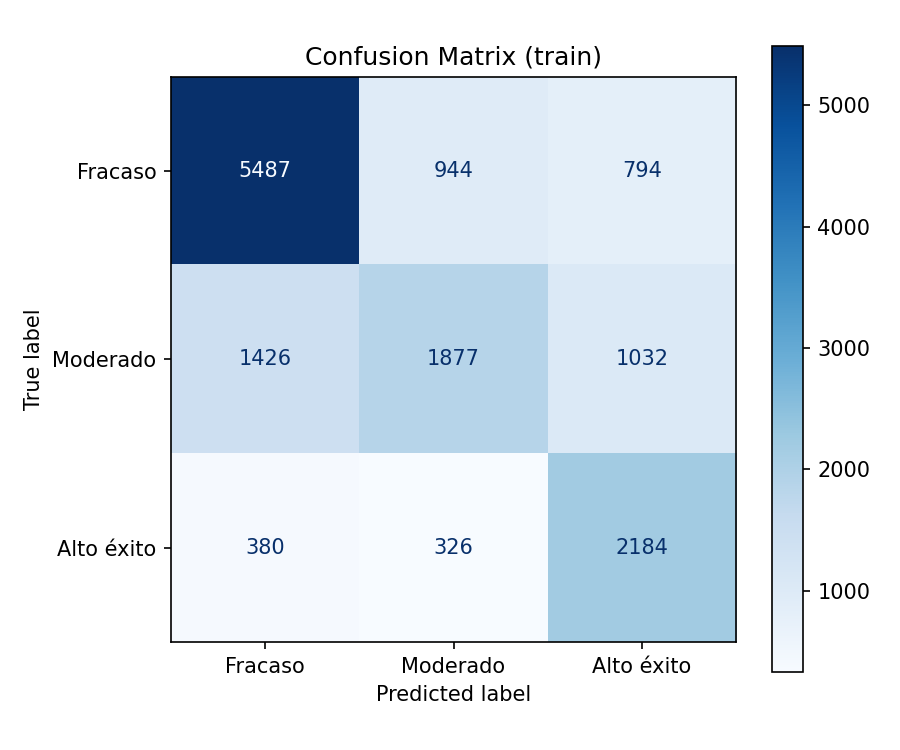
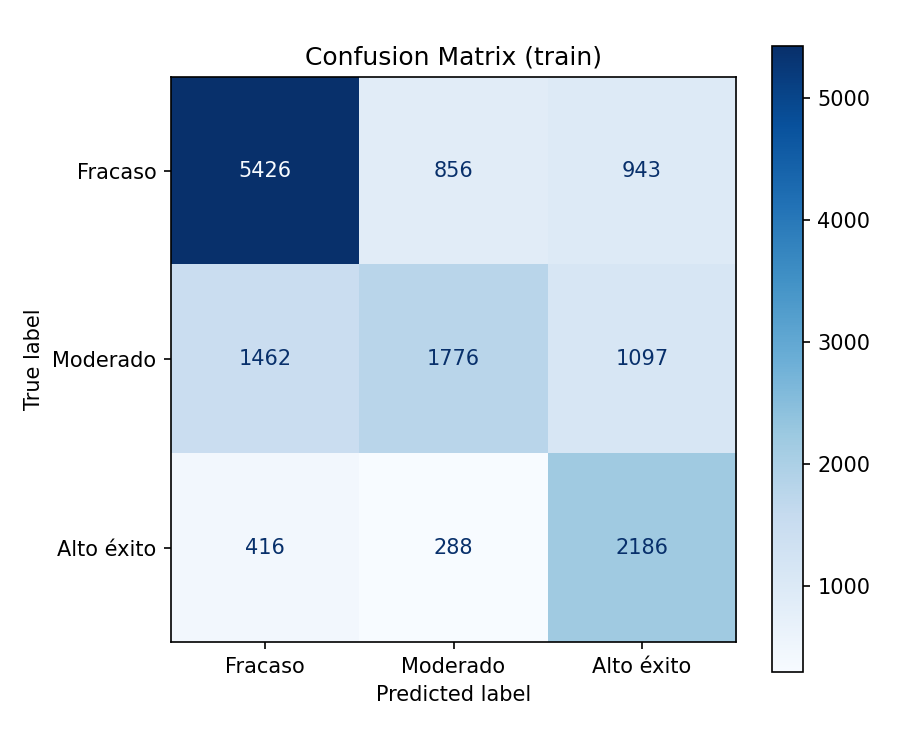
publisher_success
>publisher_succes_avg calc update (habia data leakage)
  >leave-one-out
  >uso de indies activos, no todos
  >creacion de self_published_avg como valor default

diff --git a/01_preprocess.py b/01_preprocess.py
@@ -5,7 +5,7 @@ Limpieza, ingeniería de features y cálculo del success_score.
 Ajustado para contexto INDIE:
   - Normalización basada en percentiles del subconjunto indie
   - Umbrales de clase por percentil (p50 / p80) en lugar de fijos
-  - Publisher: feature numérica de media de éxito (opción 2)
+  - Publisher: feature numérica de media de éxito
 Genera: data/processed.parquet
 """
 
@@ -167,13 +167,13 @@ df["success_class"] = df["success_score"].apply(score_to_class)
 
 labels = {0: "Fracaso", 1: "Moderado", 2: "Alto éxito"}
 
-print("\nDistribución de clases (todos los juegos):")
-for k, v in df["success_class"].value_counts().sort_index().items():
-    print(f"  {labels[k]:12s}: {v:6d}  ({v/len(df)*100:.1f}%)")
+# print("\nDistribución de clases (todos los juegos):")
+# for k, v in df["success_class"].value_counts().sort_index().items():
+#     print(f"  {labels[k]:12s}: {v:6d}  ({v/len(df)*100:.1f}%)")
 
 print("\nDistribución de clases (solo indie):")
-vc_i = df.loc[indie_mask, "success_class"].value_counts().sort_index()
-n_i  = indie_mask.sum()
+vc_i = df.loc[indie_active_mask, "success_class"].value_counts().sort_index()
+n_i  = indie_active_mask.sum()
 for k, v in vc_i.items():
     print(f"  {labels[k]:12s}: {v:6d}  ({v/n_i*100:.1f}%)")
 
@@ -240,7 +240,11 @@ for t in TOP_TAGS:
     safe = re.sub(r"[^a-z0-9]", "_", t.lower())
     df[f"tag_{safe}"] = df["tags_list"].apply(lambda lst: int(t in lst))
 
-# --- Publisher: media de éxito sobre juegos indie (mín. 3 juegos) ---
+# --- Publisher: media de éxito sobre juegos indie (mín. 3 juegos indie + leave-one-out) ---
+#     Leave-one-out: la media del publisher para cada juego se calcula
+#      excluyendo ese mismo juego, evitando data leakage (el modelo no puede
+#      "ver" el éxito del juego que está intentando predecir).
+
 pub_col = "publishers" if "publishers" in df.columns else "publisher"
 if pub_col in df.columns:
     df["publisher_clean"] = df[pub_col].apply(
@@ -249,24 +253,47 @@ if pub_col in df.columns:
 else:
     df["publisher_clean"] = "Unknown"
 
-pub_stats = (
-    df[indie_mask]
-    .groupby("publisher_clean")["success_score"]
-    .agg(["mean", "count"])
-    .rename(columns={"mean": "pub_success_avg", "count": "pub_game_count"})
-)
-# Solo publishers con al menos 3 juegos indie son fiables
-pub_avg_map      = pub_stats[pub_stats["pub_game_count"] >= 3]["pub_success_avg"]
-global_indie_avg = df.loc[indie_mask, "success_score"].mean()
+pub_sum   = df[indie_active_mask].groupby("publisher_clean")["success_score"].sum()
+pub_count = df[indie_active_mask].groupby("publisher_clean")["success_score"].count()
 
-df["publisher_success_avg"] = (
-    df["publisher_clean"]
-    .map(pub_avg_map)
-    .fillna(global_indie_avg)   # fallback: media global indie
-)
+# Fallback: media global de indies activos
+# global_indie_avg = df.loc[indie_active_mask, "success_score"].mean()
 
-print(f"\n  Publishers con ≥3 juegos indie: {len(pub_avg_map)}")
-print(f"  Media global indie (fallback):  {global_indie_avg:.1f}")
+# Juegos indie activos SIN publisher conocido (fallback o < 3 juegos)
+unknown_pubs = set(df["publisher_clean"]) - set(pub_count[pub_count >= 3].index) # publishers con <3 juegos
+self_published_mask = indie_active_mask & df["publisher_clean"].isin(unknown_pubs) # solo los publishers de indies activos
+self_published_avg  = df.loc[self_published_mask, "success_score"].mean()
+
+def publisher_avg_loo(row):
+    pub   = row["publisher_clean"]
+    score = row["success_score"]
+    
+    # publisher desconocido > media global
+    if pub not in pub_sum.index:
+        return self_published_avg
+    
+    # < 3 juegos > historial insuficiente
+    count = pub_count[pub]
+    if count < 3:
+        return self_published_avg
+    
+    # Excluye el score del juego actual del calculo del avg (leave-one-out)
+    return (pub_sum[pub] - score) / (count - 1)
+
+df["publisher_success_avg"] = df.apply(publisher_avg_loo, axis=1)
+
+n_pubs_valid = int((pub_count >= 3).sum())
+print(f"\n  Publishers con ≥3 juegos indie activos: {n_pubs_valid}")
+print(f"  Media indies activos sin publisher (fallback):  {self_published_avg:.1f}")
+
+# df["publisher_success_avg"] = (
+#     df["publisher_clean"]
+#     .map(pub_avg_map)
+#     .fillna(global_indie_avg)   # fallback: media global indie
+# )
+
+# print(f"\n  Publishers con ≥3 juegos indie válidos: {len(pub_avg_map)}")
+# print(f"  Media global indie válido (fallback):  {global_indie_avg:.1f}")
 
 # --- Release date ---
 if "release_date" in df.columns:
@@ -287,7 +314,7 @@ os.makedirs("models", exist_ok=True)
 thresholds = {
     "p50":              float(p50),
     "p80":              float(p80),
-    "global_indie_avg": float(global_indie_avg),
+    "self_published_avg": float(self_published_avg),
     "norm_params":      indie_norm_params,
     "top_genres":       TOP_GENRES,
     "top_tags":         TOP_TAGS,

diff --git a/02_train.py b/02_train.py
@@ -132,6 +132,10 @@ all_feat_names = NUMERIC
 importances = pd.Series(rf_model.feature_importances_, index=all_feat_names)
 top20 = importances.nlargest(20)
 
+# Diagnóstico: ¿qué publishers tienen mayor publisher_success_avg?
+pub_scores = df[["publisher_clean", "publisher_success_avg"]].drop_duplicates()
+print(pub_scores.sort_values("publisher_success_avg", ascending=False).head(20))
+
 fig, ax = plt.subplots(figsize=(8, 6))
 top20.sort_values().plot(kind="barh", ax=ax, color="#2ecc71")
 ax.set_title("Top 20 Feature Importances")
